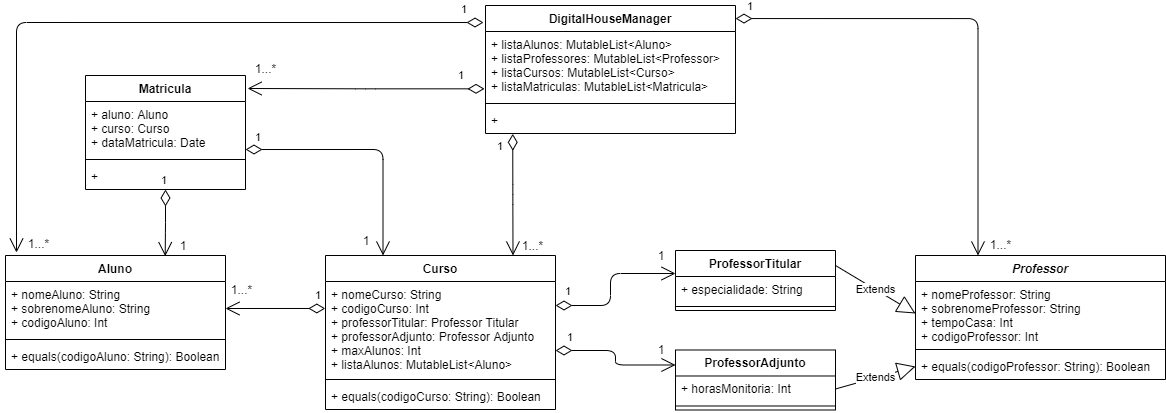
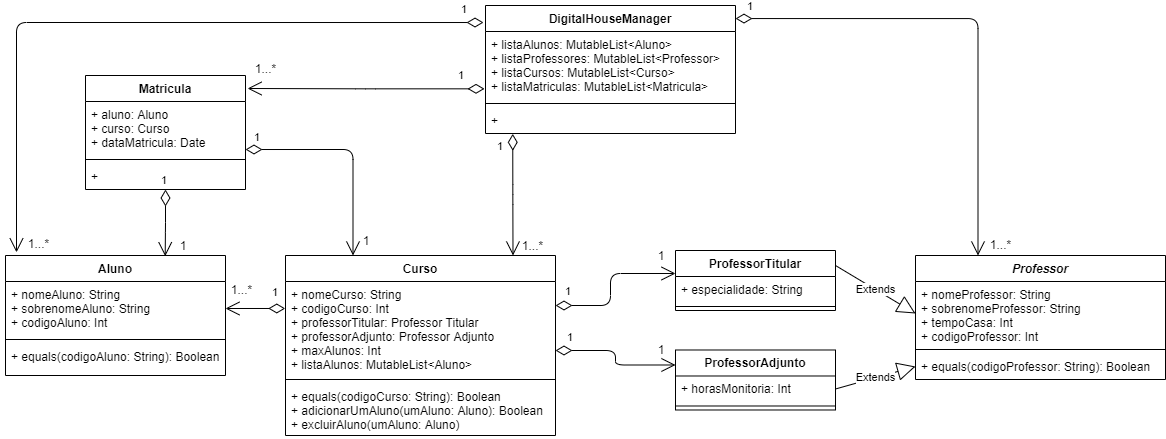
Parte H - Criação dos metodos adicionarUmAluno e excluirAluno na classe Curso

diff --git a/src/br/digital/com/Curso.kt b/src/br/digital/com/Curso.kt
@@ -19,4 +19,14 @@ class Curso(
         return true
     }
 
+    fun adicionarUmAluno(umAluno: Aluno): Boolean {
+        if (listaAlunos.lastIndex + 1 == maxAlunos) return false
+        else listaAlunos.add(umAluno)
+        return true
+    }
+
+    fun excluirAluno(umAluno: Aluno) {
+        listaAlunos.remove(umAluno)
+    }
+
 }
